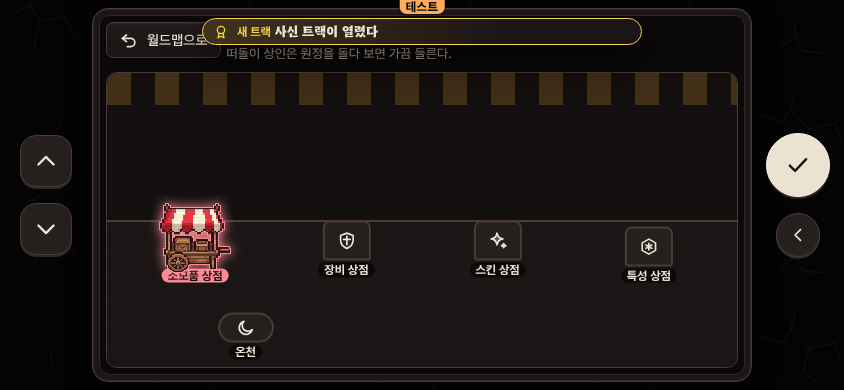
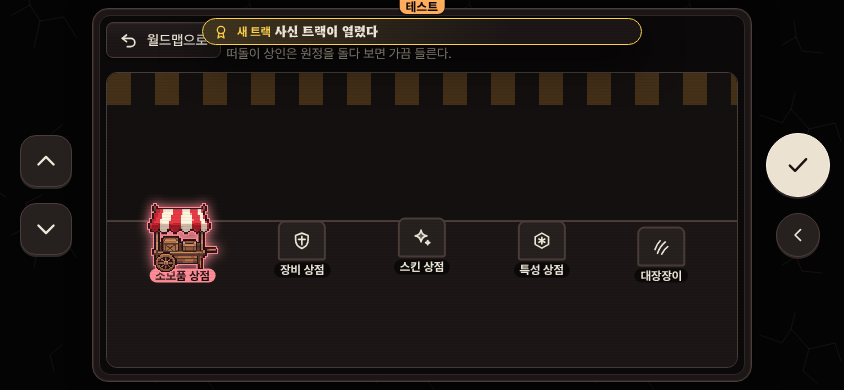
C.227 중간 2: 장터 온천 칸 삭제 (GDD 153장 1, 월드맵 쪽은 C.228)
Claude-Session: https://claude.ai/code/session_01YVaigLCZLqLyBUqJRQ43qw

diff --git a/src/ui/marketView.ts b/src/ui/marketView.ts
@@ -1,5 +1,5 @@
 // 시장 화면 (GDD 130장 3, 옛 127장 장터): 월드맵 [시장]으로 들어오는 따로 된 공간. 이름은 종족 설정 market.name (두 종족 모두 "시장").
-// 안에 온천·상점 4곳(GDD 150장 2: 소모품·장비·스킨·특성)과 떠돌이 상인(와 있을 때만 서 있음, 누르면 떠돌이 상인 창). 뒤로·[방으로 돌아가기](왼쪽 위, 온천과 같은 자리 — GDD 129-1) = 방.
+// 안에 상점 4곳(GDD 150장 2: 소모품·장비·스킨·특성)·대장장이(153장 2)와 — 온천은 월드맵으로 옮김(153장 1) — 떠돌이 상인(와 있을 때만 서 있음, 누르면 떠돌이 상인 창). 뒤로·[방으로 돌아가기](왼쪽 위, 온천과 같은 자리 — GDD 129-1) = 방.
 // 배경 그림 키 scene.market·자리 그림(prop.spa·prop.shop·prop.gearShop·prop.skinShop·prop.traitShop·prop.wanderer)은 사용자 그림 대기 — 없으면 임시 배경(좌판 줄)과 아이콘.
 import { artUrls } from '../data/art/manifest';
 import { fixParticles } from '../engine/josa';
@@ -11,7 +11,6 @@ import type { Device, SelectItem } from './bha/device';
 import { layoutOnFloor, propButton, sceneBox, spaceBackButton, type FloorEntry } from './bha/room';
 
 export interface MarketHandlers {
-  onSpa: () => void;
   /** 상점 4곳 중 하나 (GDD 150장 2) */
   onShop: (kind: ShopKind) => void;
   /** 대장장이 (GDD 153장 2): 기능은 사용자가 나중에 정한다 — 지금은 안내 한 줄 */
@@ -24,9 +23,9 @@ export interface MarketHandlers {
   backLabel?: string;
 }
 
-/** 지금 장터에 서 있는 자리: 떠돌이 상인은 와 있을 때만 (GDD 127장 2) */
+/** 지금 장터에 서 있는 자리: 떠돌이 상인은 와 있을 때만 (GDD 127장 2). 온천은 월드맵 장소로 옮겨 장터에 없다 (GDD 153장 1 — 이름 market.props.spa 만 남김) */
 export function marketSpots(save: Pick<SaveData, 'shared'>): MarketSpot[] {
-  return MARKET_SPOTS.filter((p) => p !== 'wanderer' || save.shared.wanderer.visit !== null);
+  return MARKET_SPOTS.filter((p) => p !== 'spa' && (p !== 'wanderer' || save.shared.wanderer.visit !== null));
 }
 
 export function marketView(dev: Device, faction: FactionConfig, save: SaveData, hd: MarketHandlers): void {
@@ -43,8 +42,8 @@ export function marketView(dev: Device, faction: FactionConfig, save: SaveData, 
   // ── 장면: 방과 같은 물건 단추·바닥 배치 ──
   const scene = sceneBox(mk);
   scene.classList.add('bha-market__scene');
-  const act: Record<MarketSpot, () => void> = {
-    spa: hd.onSpa, wanderer: hd.onWanderer, smith: hd.onSmith,
+  const act: Record<Exclude<MarketSpot, 'spa'>, () => void> = {
+    wanderer: hd.onWanderer, smith: hd.onSmith,
     shop: () => hd.onShop('consumable'), gearShop: () => hd.onShop('gear'), skinShop: () => hd.onShop('skin'), traitShop: () => hd.onShop('trait'),
   };
   const spots = marketSpots(save);
@@ -53,7 +52,7 @@ export function marketView(dev: Device, faction: FactionConfig, save: SaveData, 
   for (const p of spots) {
     const b = propButton({ prop: p, name: mk.props[p], ...mk.layout[p], art: !!artUrls(`prop.${p}`).src });
     b.dataset.spot = p;
-    b.onclick = act[p];
+    b.onclick = act[p as Exclude<MarketSpot, 'spa'>];
     scene.append(b);
     btns.push(b);
     floor.push({ el: b, foot: mk.layout[p], kind: 'prop' });
@@ -68,7 +67,7 @@ export function marketView(dev: Device, faction: FactionConfig, save: SaveData, 
   body.append(scene);
   const main = mountApp(dev.view, { cls: 'bha-room bha-market' }, hud, body);
   main.dataset.devLayout = 'visual';
-  // 기기 버튼 (GDD 122장): ▲▼ = [방으로 돌아가기](화면 위치 순서 — 왼쪽 위) → 자리들(뒷줄 상점 4곳 왼 → 오, 앞줄 온천·떠돌이 상인), ✓ = 누름, 뒤로 = 방
+  // 기기 버튼 (GDD 122장): ▲▼ = [방으로 돌아가기](화면 위치 순서 — 왼쪽 위) → 자리들(뒷줄 상점 4곳·대장장이 왼 → 오, 앞줄 떠돌이 상인), ✓ = 누름, 뒤로 = 방
   const items: SelectItem[] = [{ el: backBtn }, ...btns.map((b) => ({ el: b }))];
   btns[0]?.focus({ preventScroll: true }); // 첫 선택 = 첫 자리 (기기는 초점 있는 항목부터 고른다)
   dev.setItems(items, main);

diff --git a/src/engine/faction.ts b/src/engine/faction.ts
@@ -73,7 +73,7 @@ export type RoomProp = (typeof ROOM_PROPS)[number];
 export const WORLD_PLACES = ['home', 'market', 'adventure', 'tower'] as const;
 export type WorldPlace = (typeof WORLD_PLACES)[number];
 /** 장터 안 자리 (GDD 127장 2): 온천·상점 + 떠돌이 상인(와 있을 때만 서 있다) */
-/** 시장 자리 (GDD 127장 2·150장 2·153장 2): 상점 4곳(shop = 소모품 상점)·대장장이(뒷줄 왼 → 오) · 온천 · 떠돌이 상인(앞줄) — 순서 = 기기 ▲▼ 순서 */
+/** 시장 자리 (GDD 127장 2·150장 2·153장 2): 상점 4곳(shop = 소모품 상점)·대장장이(뒷줄 왼 → 오) · 떠돌이 상인(앞줄) — 순서 = 기기 ▲▼ 순서. spa 는 이름(props.spa)만 — 온천은 월드맵 장소 (153장 1) */
 export const MARKET_SPOTS = ['shop', 'gearShop', 'skinShop', 'traitShop', 'smith', 'spa', 'wanderer'] as const;
 export type MarketSpot = (typeof MARKET_SPOTS)[number];
 /** hungry = 꺼 둔 동안 배고파졌을 때 다시 열면 한 번 하는 말 (GDD 24-1) */
@@ -215,11 +215,11 @@ export const DEFAULT_MARKET: MarketConfig = {
   sceneArt: 'scene.market',
   props: { spa: '온천', shop: '소모품 상점', gearShop: '장비 상점', skinShop: '스킨 상점', traitShop: '특성 상점', smith: '대장장이', wanderer: '떠돌이 상인' },
   floor: { aspect: 2, poly: [[0, 0.5], [1, 0.5], [1, 1], [0, 1]] },
-  // 뒷줄 = 상점 4곳·대장장이(왼 → 오), 앞줄 = 온천·떠돌이 상인 (GDD 150장 2·153장 2)
+  // 뒷줄 = 상점 4곳·대장장이(왼 → 오), 앞줄 = 떠돌이 상인 (GDD 150장 2·153장 2). 온천(spa)은 장터에 안 서고 이름만 쓴다 (153장 1)
   layout: {
     shop: { x: 12, y: 66, scale: 0.7 }, gearShop: { x: 31, y: 64, scale: 0.7 }, skinShop: { x: 50, y: 63, scale: 0.7 },
     traitShop: { x: 69, y: 64, scale: 0.7 }, smith: { x: 88, y: 66, scale: 0.7 },
-    spa: { x: 22, y: 92, scale: 0.7 }, wanderer: { x: 78, y: 92, scale: 0.7 },
+    spa: { x: 22, y: 92, scale: 0.7 }, wanderer: { x: 50, y: 92, scale: 0.7 },
   },
 };
 

diff --git a/tests/c201.test.ts b/tests/c201.test.ts
@@ -22,9 +22,9 @@ describe('127장 2 장터 → 130장 시장 (C.215: 방 장터 물건 폐기, 13
   });
   it('떠돌이 상인은 와 있을 때만 시장에 서 있다', () => {
     const s = newSaveData('hollow');
-    expect(marketSpots(s)).toEqual(['shop', 'gearShop', 'skinShop', 'traitShop', 'smith', 'spa']);
+    expect(marketSpots(s)).toEqual(['shop', 'gearShop', 'skinShop', 'traitShop', 'smith']); // 온천은 월드맵 (GDD 153장 1)
     s.shared.wanderer.visit = { at: 1, runId: 1, tier: 1, stock: [] };
-    expect(marketSpots(s)).toEqual(['shop', 'gearShop', 'skinShop', 'traitShop', 'smith', 'spa', 'wanderer']);
+    expect(marketSpots(s)).toEqual(['shop', 'gearShop', 'skinShop', 'traitShop', 'smith', 'wanderer']);
   });
   it('종족 설정 검사: 시장 자리 이름·위치가 틀리면 오류, 옛 room.props.shop·market 은 알 수 없는 물건', () => {
     const base = JSON.parse(readFileSync('src/data/factions/hollow.json', 'utf8'));
@@ -44,7 +44,6 @@ describe('127장 2·3 화면 연결 (app.ts)', () => {
   it('월드맵 시장 → 시장 화면, 안의 온천·상점·떠돌이 상인 창 (C.215: 방 장터 물건 폐기)', () => {
     expect(app).toContain("onMarket: () => { worldAt = 'market'; openMarket(faction, s); }");
     expect(app).toContain("open('market', () => marketView(");
-    expect(app).toContain('onSpa: () => openSpa(faction, s)');
     expect(app).toContain("mode: 'wanderer'");
   });
   it('떠돌이 상인 도착 알림은 방에서만, 장터에 먼저 들어가면 본 것으로', () => {

diff --git a/src/ui/app.ts b/src/ui/app.ts
@@ -923,7 +923,6 @@ export function startApp(host: HTMLElement): void {
     if (wandererToast?.isConnected) wandererToast.classList.replace('is-in', 'is-out'); // 방에서 뜬 알림이 장터까지 남지 않게 (사라지는 연출 뒤 지워진다)
     wandererToast = null;
     open('market', () => marketView(dev, faction, s, {
-      onSpa: () => openSpa(faction, s),
       onShop: (kind) => open('shop', () => shopView(dev, faction, s, { persist, kind, onWear: () => dress(s.wear) })),
       onWanderer: () => open('wanderer', () => shopView(dev, faction, s, { persist, mode: 'wanderer' })),
       // 대장장이 (GDD 153장 2, provisional): 기능은 나중 — 노란 알림 한 줄만

diff --git a/tests/c227.test.ts b/tests/c227.test.ts
@@ -51,3 +51,12 @@ describe('153장 2 장터 대장장이', () => {
     expect(readFileSync('src/ui/app.ts', 'utf8')).toContain('아직 문을 열지 않았다');
   });
 });
+
+describe('153장 1 장터의 온천 칸 삭제', () => {
+  it('장터에 서는 자리에 온천이 없다 (이름 market.props.spa 는 온천 화면이 쓴다)', async () => {
+    const { marketSpots } = await import('../src/ui/marketView');
+    const { newSaveData } = await import('../src/game');
+    expect(marketSpots(newSaveData('hollow'))).not.toContain('spa');
+    expect(readFileSync('src/ui/app.ts', 'utf8')).not.toContain('onSpa: () => openSpa(faction, s)');
+  });
+});

diff --git a/docs/dev-log.md b/docs/dev-log.md
@@ -1339,7 +1339,7 @@ C.0 ~ C.120 은 `docs/dev-log-archive.md` 로 옮겼다(C.0~C.59 2026-10-20, C.6
 - 사용자 원문: "상점 분리하자. 소모품 상점, 장비 상점, 스킨 상점, 특성상점 이렇게. / 상점에서 사서, 탈착 가능한 특성 만들거임."
 - **상점 4곳**: `SHOP_KINDS`·`SHOP_KIND_TABS`(src/data/shop), `shopView` 의 `kind`(없으면 소모품). 소모품 = 음식·약·소모품·타일·기타, 장비·스킨·특성 = 탭 하나(탭 줄 숨김). 제목 = 상점 이름, 상점마다 마지막 탭 기억. 특성 상점은 품목 대기('지금 파는 특성이 없다.').
 - **들어가는 곳**: 시장 자리 shop·gearShop·skinShop·traitShop·smith(대장장이, 153장 2 — 누르면 "대장장이는 아직 문을 열지 않았다" 노란 알림, 기능 없음)·spa·wanderer. 이름 = 종족 설정 market.props(기본값 DEFAULT_MARKET), 방 빈사 줄 [상점] = `shopPicker`(상점 4곳 + [닫기], ▲▼✓·뒤로).
-- **기획서 값 / 실제 값 / 이유**: 153장 1 '장터에서 온천 칸 빼기'는 아직 안 뺌 — C.228(월드맵 온천)보다 먼저 빼면 온천에 갈 길이 없어진다. C.228 이 main 에 들어온 뒤 뺀다.
+- **153장 1 장터 온천 칸 삭제**(마스터Z 추가 지시 21:33): `marketSpots` 에서 spa 를 뺌(이름 market.props.spa 는 온천 화면이 쓰므로 남김), 장터 핸들러 onSpa 삭제. 월드맵 온천·튜토리얼 온천 길(tutorial.json `[data-spot="spa"]`·app.ts spaWay)은 C.228 몫이라 손대지 않음 — C.228 이 들어오기 전에는 튜토리얼 회복 안내의 온천 단계가 장터에서 멈춘다.
 - 테스트: 새 `tests/c227.test.ts`, c201·c63 의 옛 '상점 하나' 기대값을 150장으로 갱신. 전체 2282 통과, balance:check 통과.
 - 캡처 `docs/captures/c227/`(`scripts/c227-proof.cjs`, 1배 844×390): 01 시장의 상점 4곳 · 02 방 [상점] 고르는 창(▼ 한 번 = 장비 상점).
 

diff --git a/docs/GDD.md b/docs/GDD.md
@@ -361,7 +361,7 @@ data/
 - 154장 신설: 가방 기타 창 + 재료 22종(쓰임·얻는 곳은 나중). C.229 코딩169.
 
 ### v5.344 (2026-10-30, 코딩167 C.227 중간)
-- 150장 1·2 구현 완료 줄 + 153장 2(대장장이 칸). 코드 판단: 상점 4곳 이름 = 시장 자리 이름(종족 설정 market.props, 두 종족 같음), 방 [상점] 버튼 이름 = market.shopsLabel '상점'. 153장 1 의 '장터에서 온천 칸 빼기'는 C.228(월드맵 온천)이 main 에 들어온 뒤(먼저 빼면 온천 가는 길이 끊김).
+- 150장 1·2 구현 완료 줄 + 153장 2(대장장이 칸). 코드 판단: 상점 4곳 이름 = 시장 자리 이름(종족 설정 market.props, 두 종족 같음), 방 [상점] 버튼 이름 = market.shopsLabel '상점'. 153장 1 장터 온천 칸 삭제(이름 market.props.spa 는 남김, 월드맵 쪽은 C.228).
 
 ### v5.343 (2026-10-30, 마스터Z — 사용자 21:3x)
 - 153장 신설: 온천 → 월드맵 장소, 장터 대장장이 칸(기능 없음), 월드맵 이동 = 출발하자마자 페이드. C.228 코딩168 + C.227 코딩167 추가.
